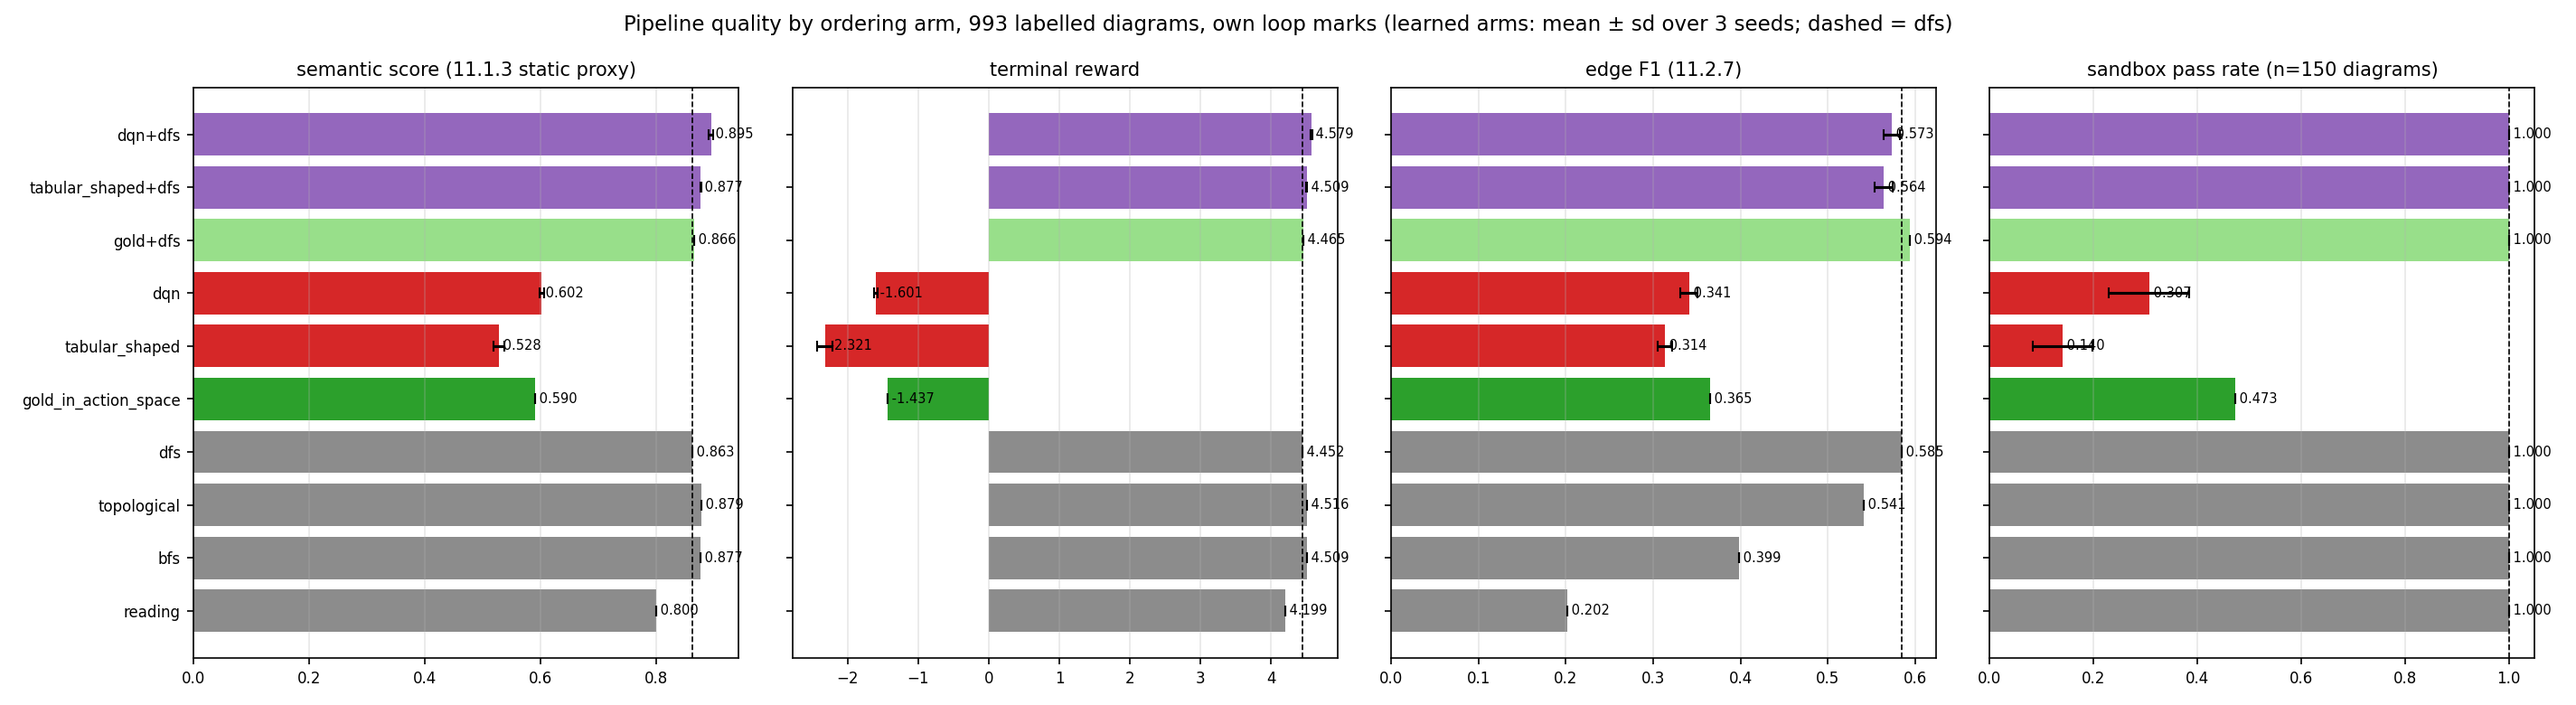
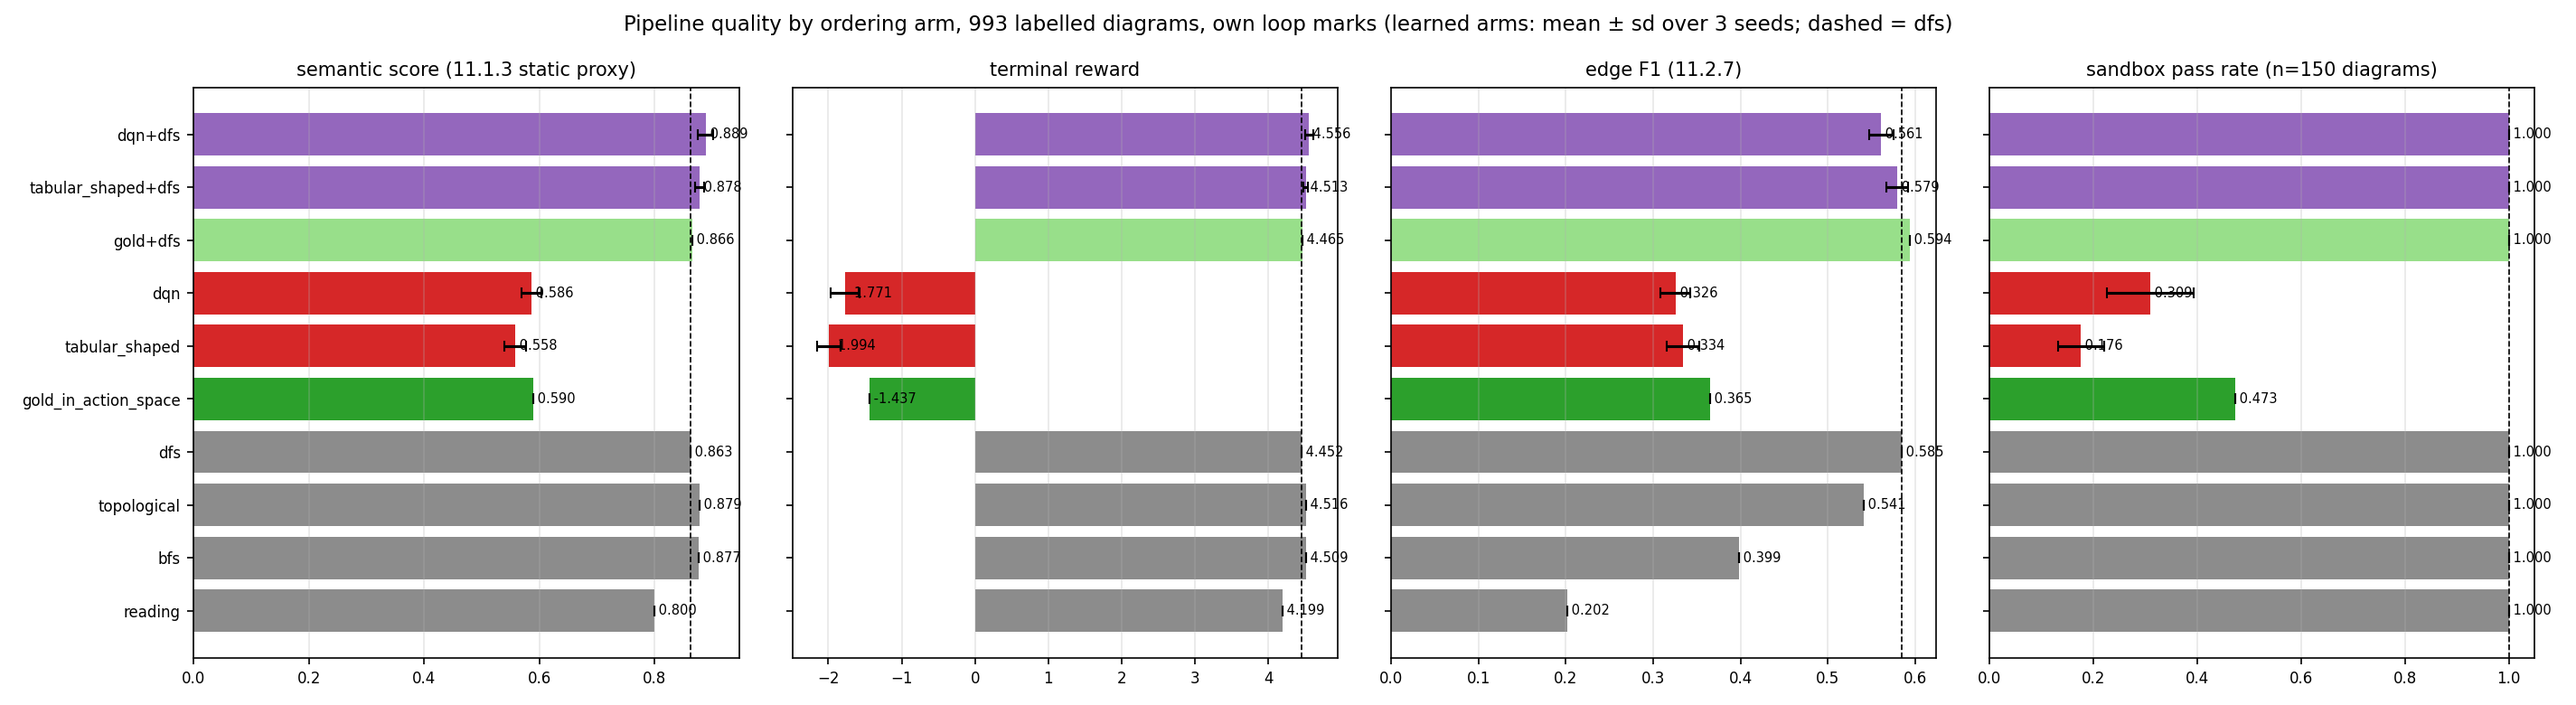
11.2.10: removing RL loses nothing in executability; its only gain on top of DFS is +0.026 semantic from loop marks, and the learned order costs 0.024-0.050 edge F1

diff --git a/contributing.md b/contributing.md
@@ -487,7 +487,7 @@ becomes the code structure.
 | 11.2.7 | Baseline comparison | Learned policy vs. plain topological sort vs. DFS/BFS | `src/rl/baselines.py` + `tests/test_rl_baselines.py` + `reports/rl_baselines.md`: the four non-learned arms, the definition of the ambiguous set, and the harness that turns them into a win-rate table. **The ambiguous set had to be defined before it could be used, and the first result was that a binary definition is useless**: branch point 93.7%, unresolved edge 56.2%, cyclic 63.5%, multi-component 55.9%, **any of them 993 of 993** - *every* labelled diagram is order-ambiguous, minimum measured ordering freedom 1.0 bit. The set is therefore defined by magnitude, **≥ 4 bits (≥ 16 consistent orders) = 684 of 993 (68.9%)**, 610 hdbpmn / 74 fa_bresler. On that set: **dfs 0.6247 mean edge F1 / 345 outright wins / 50.4%**, topological 0.5466 / 44 / 6.4%, bfs 0.3485 / 1 / 0.1%, and the blind `reading` control 0.1743 / 0 / 0.0% - the control is reported because had it come close the metric would have been scoring page layout rather than flow. **The number a learned arm must beat is 93.4%, not 50.4%**: 43% of the set (294 of 684) has no outright winner and DFS is in the top group on 639 of 684. The 4-bit threshold is not load-bearing - dfs > topological > bfs > reading at every threshold from 1 to 16 bits. Scoring is 10.2.5's `irdiff.diff` edge F1 of the chain the order asserts against the diagram's real edges, with identical denominators across arms; Kendall tau against a reference was rejected as circular (the only candidate reference is 7.3.3's DFS, which hands the dfs arm 1.0) and node F1 as constant 1.0 by construction. **The blocking bug is fixed**: `compare` validated arms against the module's own 5-node `_PROBE` instead of a diagram from the set being run, so `test_a_registered_arm_joins_the_table_and_can_win` failed and **no learned policy could ever have entered the table**; `check_arm` now takes the diagram to probe on. The learned arm joins through `register_arm` and its numbers are in 11.2.1 / 11.2.10 | ✅ |
 | 11.2.8 | Convergence diagnostics | Episode reward, TD-error, Q-value heatmaps | `src/rl/diagnostics.py` + `tests/test_rl_diagnostics.py` + `reports/rl_diagnostics.md` + `reports/figures/p11_convergence.png` + `p11_qvalues.png`: episode reward, TD error, greedy-probe reward/coverage/truncation, policy churn, visit concentration and a decoded-key Q heatmap, for **3 seeds × 120,000 episodes** at 11.2.1's cell, reproduced exactly on a second run. **The table has not converged**: 13.5-15.0% of reached keys still flip their greedy action between snapshots 5,000 episodes apart, churn bottoms at ~11% near 50,000 and *rises* again as ε decays, and late greedy probes swing by up to 0.9 reward (seed 0: −3.23 → −3.65 → −4.12 → −3.22 → −2.82). **TD error is the wrong instrument, and a new measurement shows why**: the TD tail/head plateau is 0.79-0.82 (11.2.1's figure), but a *frozen-table floor* - the final table at α 0, which cannot learn - is 0.71-1.10, and training TD sits at 0.84-1.33x that floor, so the residual is target noise (random diagrams, exploration, 11.1.6's 25.2% aliasing), not unfinished learning. **The greedy policy loops before it stops looping**: 45% of greedy episodes hit the step cap mid-training and 18-23% still do at the end, while the exploring training policy never exceeds ~7% - exploration hides the loops, which is why training return (rising +0.011/1k) is a poor proxy here. Final greedy reward −2.90 over seeds, no better than 11.2.2's 60,000-episode −2.9952 ± 0.5782, full coverage never above 6.75% against gold's 41.69%; **11.2.1's single-seed claim that greedy quality falls with budget is not reproduced** at 120,000. Visits: ~1,850 keys reached (1.4% of the bound), half of ~870,000 updates on 53-56 keys, 587-657 keys under 10 updates. The heatmap's most-visited key (5% of updates) is the entry of a disconnected page where emit (−7.23) and terminate (−11.89) are both deep negatives - 11.1.4's ceiling visible in the table. **Inherited draft corrected**: churn used an unmasked argmax that picks a never-taken 0.0-valued action on 5.0-5.8% of keys (measured to move churn by ≤ 0.002 - real, negligible, fixed); the heatmap painted never-updated cells the same white as learned zeros (now grey); its `converged` threshold (TD ratio < 0.25) is unreachable given the noise floor and was removed; the committed figures appear to come from a 2,000-episode run and are replaced | ✅ |
 | 11.2.9 | Sandbox execution harness | Safe subprocess with timeout / memory cap to run generated code for the semantic reward | `src/rl/sandbox.py`: `run(code, timeout_s, memory_limit_mb, ...) -> {ok, kind, ...}` with `kind` in `ok/timeout/memory/exception/syntax_error/nonzero_exit/crash/refused`, so the reward keys off one field and **never sees an exception raised by the code it is scoring**. One **Windows job object per call** (`PROCESS_MEMORY | JOB_MEMORY | ACTIVE_PROCESS | KILL_ON_JOB_CLOSE`) provides both the tree-kill and the memory cap. **The cap is a real hard cap and it was verified against the number, not asserted**: 400x1MB under a 128 MiB limit raises `MemoryError` in the child at `PeakJobMemoryUsed` **134.5 MB (128.3 MiB)**, 0.3% over, which is kernel accounting granularity rather than enforcement slack. **The tree-kill was verified against its counter-example**: a control calling plain `Popen.kill()` on the same parent/grandchild pair leaves the grandchild measurably alive, while the job object clears it in **13.5 ms mean, 20.2 ms max** past the deadline. The spawn race is closed by a bootstrap child that blocks on `stdin.read()` so the job is assigned *before* the program text arrives - otherwise an allocation runs uncapped in the gap. Output is drained by threads that keep reading past their keep-cap, so 64 MB of `print` truncates in 94 ms instead of filling the 64 KB pipe and deadlocking. Overhead is **71.2 ms median** per call (n=50), and a static pre-scan refuses denied imports in **0.005 ms** without spawning. 35 adversarial tests pass, including SIGINT-ignoring loops, unbounded recursion, fork-bombs capped at `ActiveProcessLimit`, flood-plus-timeout, and a byte-identical repo listing before and after code that tries to write into it. **Rejected on the measurement**: `resource.setrlimit` is POSIX-only and would have been the cap that silently does nothing (kept for the POSIX branch and marked unmeasured); a psutil RSS-polling watchdog is advisory by construction, since it observes allocations that already succeeded and `bytearray(1 GB)` commits in full before any sample sees it; a warm interpreter pool would amortise the 71 ms but carries state between episodes, so the reward would stop being a function of the code alone. **The honest limit is recorded in the docstring verbatim: this is a resource sandbox, not a security boundary** - same user, same token, full filesystem access outside its temp cwd, no network isolation, and the import blocklist is a 5 us tripwire for emitter bugs that `__import__("socket")` walks past, with a test asserting exactly that so it cannot later be mistaken for a control | ✅ |
-| 11.2.10 | Ablation | Pipeline quality without RL (heuristic ordering only) | Contribution quantified | ❌ |
+| 11.2.10 | Ablation | Pipeline quality without RL (heuristic ordering only) | `src/rl/ablation.py` + `tests/test_rl_ablation.py` + `reports/rl_ablation.md` + `reports/figures/p11_ablation.png`: every ordering arm is pushed through 11.1.3's `emit_code` and scored end to end - 11.1.3's semantic score, terminal reward, 11.2.7 edge F1, undefined names and 11.2.9's sandbox on a seeded 150-diagram sample (101 hdbpmn / 49 fa_bresler) - over 993 labelled / 684 ambiguous diagrams, 3 seeds, with 11.2.5's DQN checkpoints and 11.2.4's shaped table. **RL as the orderer loses, and the loss is the action space rather than the learning**: DQN minus the best heuristic is **-0.293 ± 0.017 semantic** and **-0.691 sandbox pass** (0.309 vs 1.000), but gold play in the same action space scores 0.590 / 0.473 and DQN sits **-0.004 ± 0.017** from it - a policy that cannot cross components leaves undefined names in 50-67% of programs however well it learns. **On top of DFS the contribution is small and is entirely the loop marks**: `dqn+dfs - dfs` **+0.026 ± 0.013 semantic** (seed 0 paired +0.027, 2 s.e. 0.004, 282 wins / 615 ties / 96 losses), loops 0.314 -> 0.504, and with oracle loop marks for every arm the gain vanishes (**-0.0025 ± 0.007**) - the learned *order* adds nothing. **The order costs edge F1**: -0.024 ± 0.014 on the 993 and -0.050 ± 0.019 on the ambiguous 684 (seed 0: 2 wins / 121 losses); even a perfect prefix (`gold+dfs`) is worth +0.0094 F1 on the 993 and exactly 0 on the ambiguous set. Every full-coverage arm passes the sandbox 150/150. **Contribution quantified: removing RL loses nothing in executability and at most 0.026 semantic score, all from loop marking** - order heuristically (DFS) and keep RL, if at all, for the loop decision. **Inherited draft corrected** (docstring): the sandbox sample was the first 120 diagrams (all hdbpmn), `contribution` counted gold as a heuristic, the learner was a private 11.2.1 table rather than a reported policy, and its "gold loop marks" mode had none (`gold_actions` never marks: 0 of 993). The docstring promised `reports/rl_ablation.md` but nothing wrote it; it is written from `experiments/rl/ablation.json`. DQN checkpoints regenerated 2026-09-12 at 11.2.5's default cell after a lost `experiments/` | ✅ |
 
 ---
 
@@ -718,11 +718,11 @@ Units 1-3 and the classical half of Unit 4 (clustering, CNN) are fully covered -
 | 8 — Clustering | 10 | 10 | ✅ |
 | 9 — CNN & OCR | 22 | 22 | ✅ |
 | 10 — Graph Assembly | 14 | 14 | ✅ |
-| 11 — RL Traversal | 16 | 15 | ❌ |
+| 11 — RL Traversal | 16 | 16 | ✅ |
 | 12 — LLM Fine-Tuning | 26 | 11 | ❌ |
 | 13 — Orchestration | 10 | 0 | ❌ |
 | 14 — Evaluation | 11 | 0 | ❌ |
 | 15 — MLOps | 12 | 0 | ❌ |
 | 16 — Web App & Demo | 14 | 0 | ❌ |
 | 17 — Documentation | 10 | 0 | ❌ |
-| **Total** | **302** | **229** | ❌ |
+| **Total** | **302** | **230** | ❌ |

diff --git a/reports/rl_ablation.md b/reports/rl_ablation.md
@@ -1,0 +1,49 @@
+# 11.2.10 - Pipeline ablation: quality without RL
+
+Generated from `python -m src.rl.ablation --write` (`experiments/rl/ablation.json`,
+`reports/figures/p11_ablation.png`). 993 labelled diagrams (684 ambiguous), 3 seeds, tabular arm
+60,000 episodes, DQN = 11.2.5's `p11-dqn-features-s{0,1,2}` checkpoints (regenerated 2026-09-12 with
+`src.rl.dqn --stage member`, 11.2.5's default cell), sandbox on a seeded 150-diagram sample
+(101 hdbpmn / 49 fa_bresler). Arms and the own/oracle loop-mark modes are defined in the
+`src/rl/ablation.py` docstring.
+
+## Table - 993 labelled, own loop marks (learned arms: seed mean)
+
+| arm | semantic | terminal reward | edge F1 | coverage | loops | undefined | sandbox pass |
+| :--- | ---: | ---: | ---: | ---: | ---: | ---: | ---: |
+| topological | 0.8789 | 4.516 | 0.5415 | 1.000 | 0.314 | 0.000 | 1.000 |
+| dfs | 0.8630 | 4.452 | 0.5849 | 1.000 | 0.314 | 0.000 | 1.000 |
+| bfs | 0.8772 | 4.509 | 0.3986 | 1.000 | 0.314 | 0.000 | 1.000 |
+| reading | 0.7997 | 4.199 | 0.2021 | 1.000 | 0.314 | 0.000 | 1.000 |
+| gold_in_action_space | 0.5903 | -1.437 | 0.3648 | 0.515 | 0.314 | 0.500 | 0.473 |
+| gold+dfs | 0.8662 | 4.465 | 0.5943 | 1.000 | 0.314 | 0.000 | 1.000 |
+| dqn | 0.5861 | -1.771 | 0.3255 | 0.469 | 0.501 | 0.672 | 0.309 |
+| dqn+dfs | 0.8890 | 4.556 | 0.5612 | 1.000 | 0.504 | 0.000 | 1.000 |
+| tabular_shaped | 0.5582 | -1.994 | 0.3344 | 0.434 | 0.427 | 0.808 | 0.176 |
+| tabular_shaped+dfs | 0.8783 | 4.513 | 0.5792 | 1.000 | 0.430 | 0.000 | 1.000 |
+
+## Findings
+
+1. **RL as the orderer loses badly, and almost all of it is the action space, not the learning.**
+   DQN minus the best heuristic: semantic **-0.293 ± 0.017**, terminal reward -6.29, edge F1 -0.259,
+   sandbox pass **-0.691** (0.309 vs 1.000). But gold play inside the same action space scores 0.590
+   semantic / 0.473 sandbox, and DQN is within **-0.004 ± 0.017** semantic of it: a policy that cannot
+   cross components leaves undefined names in 50-67% of programs no matter how well it learns.
+2. **On top of DFS, RL adds a small gain that is entirely its loop marks.** `dqn+dfs - dfs` semantic
+   **+0.026 ± 0.013** over seeds (seed 0 paired: +0.027, 2 s.e. 0.004, 282 wins / 615 ties / 96
+   losses), terminal reward +0.104; `loops` rises 0.314 -> 0.504. With every arm given oracle loop
+   marks the gain disappears (**-0.0025 ± 0.007**), so the learned *ordering* contributes nothing -
+   only the `mark-as-loop` decisions do.
+3. **The ordering itself costs edge F1.** `dqn+dfs - dfs` edge F1 **-0.024 ± 0.014** on the 993 and
+   -0.050 ± 0.019 on the 684 ambiguous (seed 0: 2 wins / 121 losses). Even a perfect prefix is worth
+   little: `gold+dfs - dfs` is +0.0094 edge F1 (41 wins, 0 losses) on the 993 and exactly 0 on the
+   ambiguous set.
+4. **Executable code does not need RL.** Every full-coverage arm, heuristic or hybrid, passes the
+   sandbox on 150/150.
+
+## Verdict
+
+Removing RL and ordering with DFS/topological loses **nothing in executability** and at most
+**0.026 semantic score**, all of it attributable to loop marking, while RL-first ordering costs up to
+0.05 edge F1. The pipeline should order heuristically (DFS for edge fidelity) and, if RL is kept,
+use it only for the loop decision.
